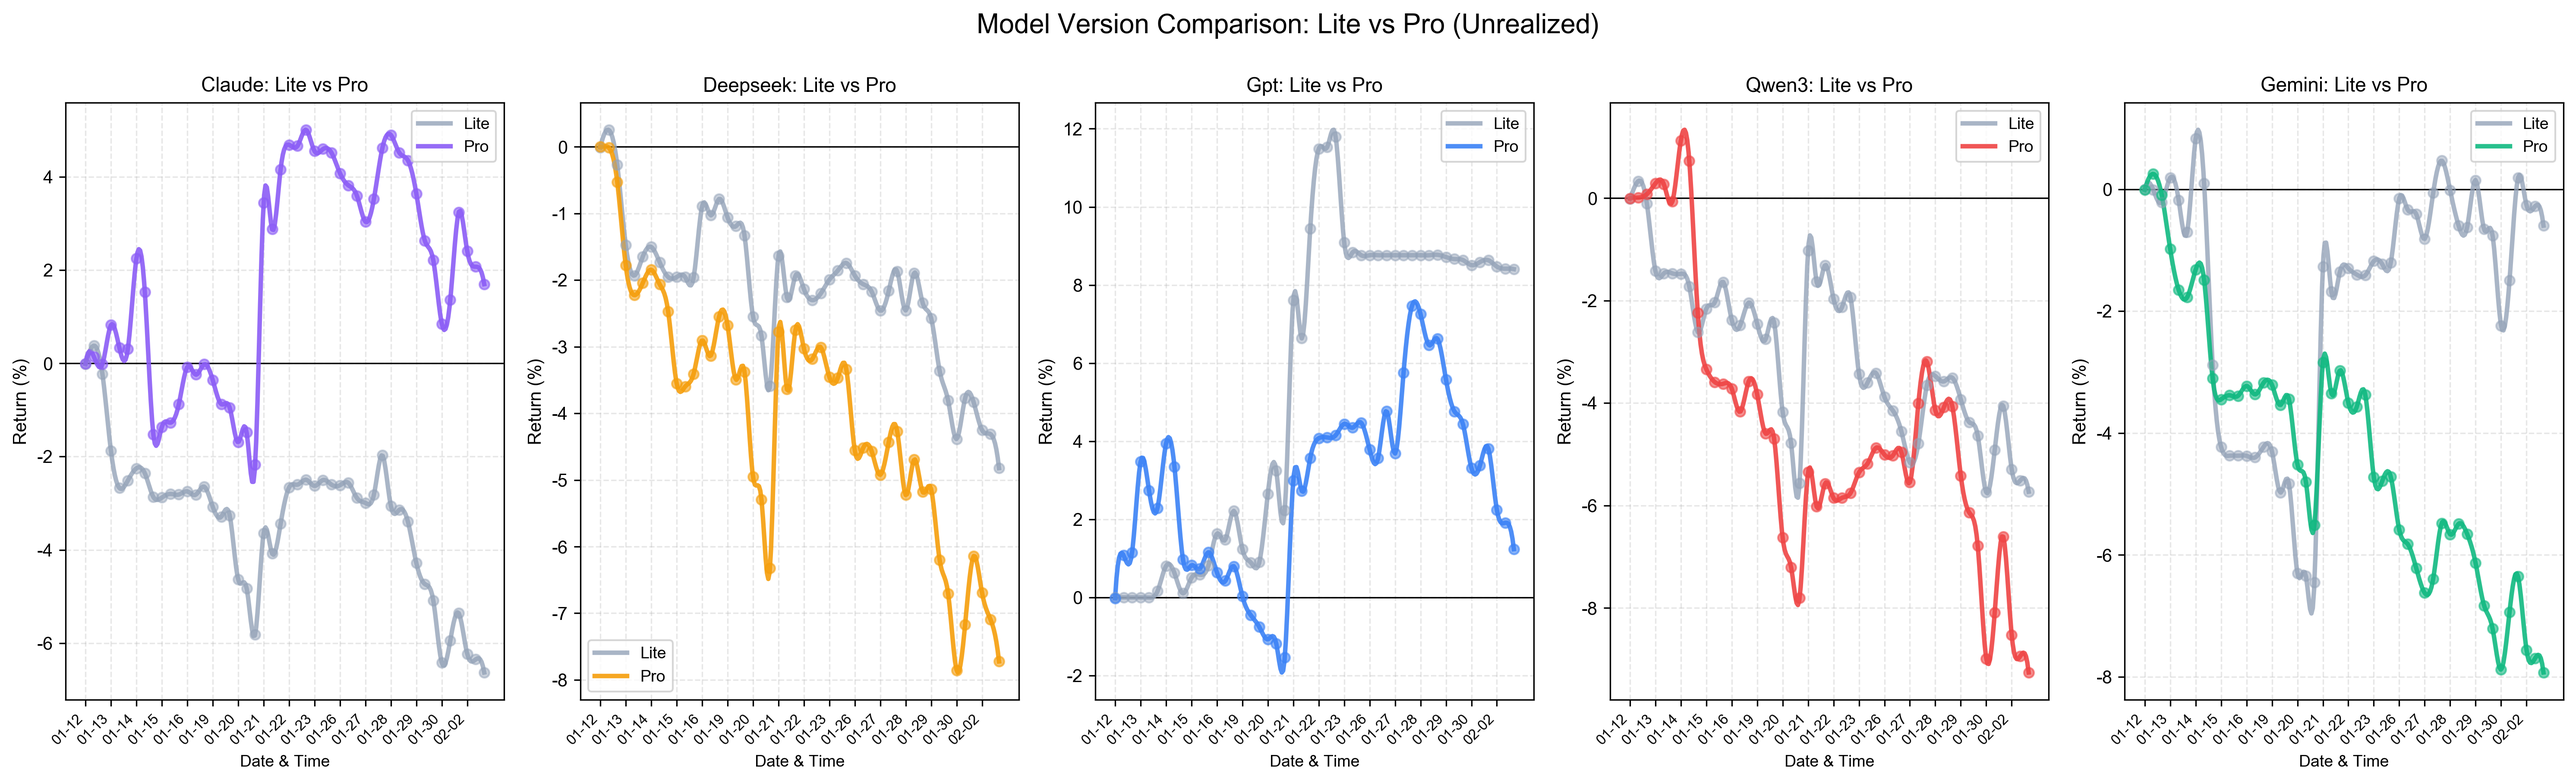
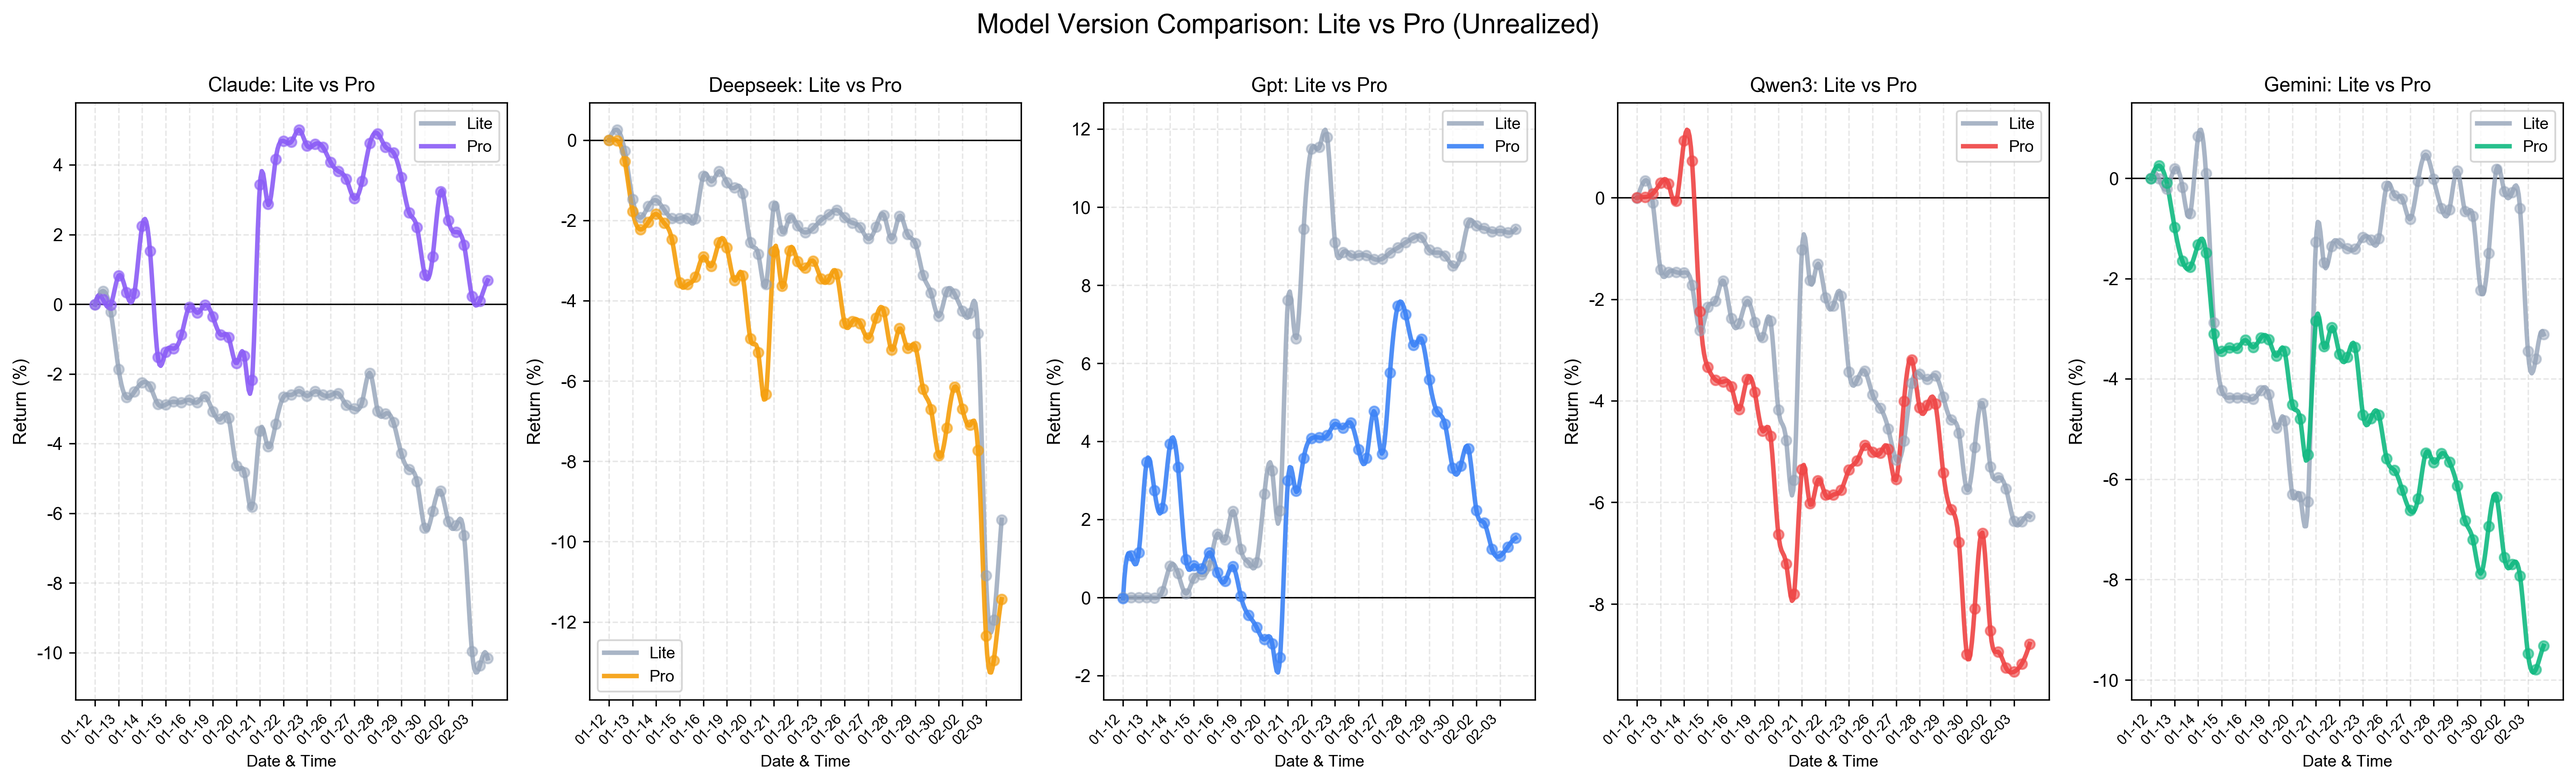
2.3

diff --git a/experiments/visualizations/performance_summary.md b/experiments/visualizations/performance_summary.md
@@ -2,8 +2,8 @@
 
 | Model | Latest Return | Max Return | Min Return | Volatility |
 |-------|---------------|------------|------------|------------|
-| Claude Haiku 4.5 | -3.09% | 0.23% | -5.43% | 1.20% |
-| DeepSeek Chat | -1.58% | 0.12% | -2.35% | 0.74% |
-| Gemini 2.5 Flash | -0.24% | 0.99% | -6.45% | 1.98% |
-| GPT-5.1 | 8.41% | 8.76% | -0.02% | 4.28% |
-| Qwen3-235b | -4.86% | -0.01% | -5.27% | 1.79% |
+| Claude Haiku 4.5 | -6.91% | 0.23% | -6.91% | 1.39% |
+| DeepSeek Chat | -1.58% | 0.12% | -2.35% | 0.72% |
+| Gemini 2.5 Flash | -3.11% | 0.99% | -6.45% | 1.94% |
+| GPT-5.1 | 8.75% | 8.76% | -0.02% | 4.34% |
+| Qwen3-235b | -7.15% | -0.01% | -7.15% | 1.95% |

diff --git a/README.md b/README.md
@@ -22,9 +22,9 @@
 
 ## 📊 Performance Comparison Results
 
-**Updated: February 2, 2026**
+**Updated: February 3, 2026**
 
-This section showcases comprehensive performance comparisons across Lite and Pro model versions, including benchmark analyses and portfolio dynamics during the trading period (January 12-February 2, 2026).
+This section showcases comprehensive performance comparisons across Lite and Pro model versions, including benchmark analyses and portfolio dynamics during the trading period (January 12-February 3, 2026).
 
 ### Dual Model Version Strategy
 
